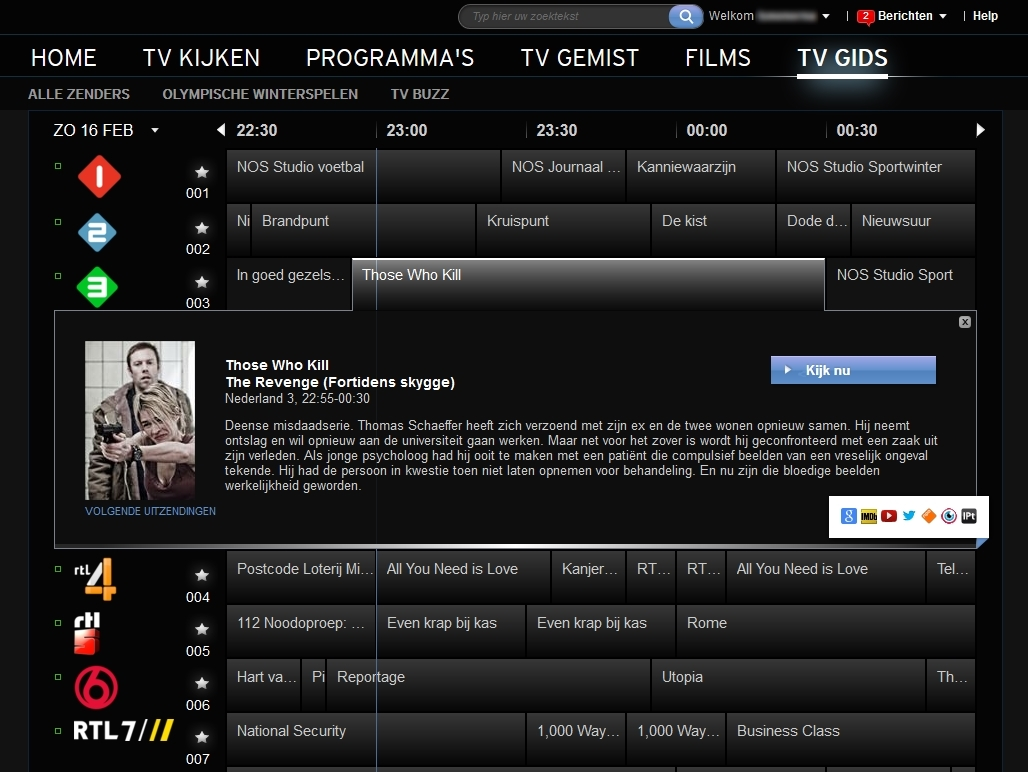
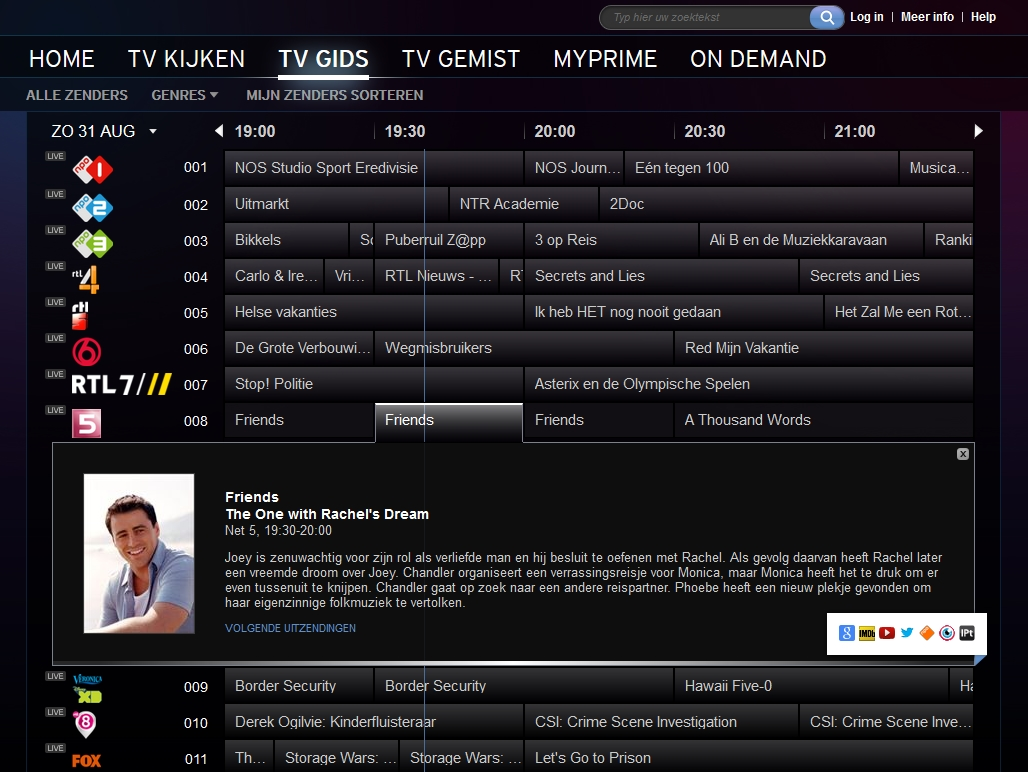
* Removed previous "Kijk Live TV" logic;     * Smaller listings to fit more channels;

diff --git a/Horizon_TV_Fixer/155147.user.js b/Horizon_TV_Fixer/155147.user.js
@@ -1,7 +1,7 @@
 // ==UserScript==
 // @name        Horizon TV Fixer
 // @namespace   https://github.com/jerone/UserScripts
-// @description Fixes some issues & styles and adds some new features on Horizon TV Gids.
+// @description Improves the Horizon TV Gids by extending the functionality and the layout of the site.
 // @author      jerone
 // @copyright   2014+, jerone (http://jeroenvanwarmerdam.nl)
 // @license     GNU GPLv3
@@ -9,12 +9,14 @@
 // @homepageURL https://github.com/jerone/UserScripts/tree/master/Horizon_TV_Fixer
 // @downloadURL https://github.com/jerone/UserScripts/raw/master/Horizon_TV_Fixer/155147.user.js
 // @updateURL   https://github.com/jerone/UserScripts/raw/master/Horizon_TV_Fixer/155147.user.js
-// @include     *horizon.tv*
-// @version     19
+// @version     20
 // @grant       none
+// @include     *horizon.tv*
 // ==/UserScript==
 
 (function HorizonTVFixer(){
+
+	if(!unsafeWindow.BBVSettingsObject){ return; }  // ignore iframes;
 
 	console.log("Version: " + unsafeWindow.BBVSettingsObject.version.major + "." + unsafeWindow.BBVSettingsObject.version.minor + "." + unsafeWindow.BBVSettingsObject.version.micro);
 
@@ -41,8 +43,8 @@
 			},
 			Twitter: {
 				submit: function(title, subtitle, channel, time){
-					return "https://twitter.com/intent/tweet?original_referer=" + encodeURIComponent(url) + 
-								"&source=tweetbutton&url=" + encodeURIComponent(url) + 
+					return "https://twitter.com/intent/tweet?original_referer=" + encodeURIComponent(url) +
+								"&source=tweetbutton&url=" + encodeURIComponent(url) +
 								"&text=" + encodeURIComponent(title + (subtitle ? " - " + subtitle : "") + " op " + channel + " om " + time + " -");
 				},
 				icon: "https://twitter.com/favicon.ico"
@@ -112,68 +114,82 @@
 	});
 
 
-	/* Live/HD green square explanation is removed by CSS fixes below, so we add it back; */
-	PageLoad(function(){
-		Array.forEach(document.querySelectorAll(".live-hd"), (live) => {
-			live.title = "Kijk LIVE";
-		});
-	});
-
 	/* Style fixes; */
 	addStyle(
-/* removed white header; */								"\
-.servicenav.service {									\
-	display: none;										\
-}														"+
+		/* removed white header; */								"\
+		.servicenav.service {									\
+			display: none;										\
+		}														"+
 
-/* cropped header; */									"\
-.header-options {										\
-	margin-top: 5px !important;							\
-}														\
-.utility-wrapper,										\
-.utility-bar {											\
-	height: 35px !important;							\
-}														\
-.branding {												\
-	display: none;										\
-}														\
-#modules {												\
-	padding-top: 0;										\
-}														\
-.channel-guide.module {									\
-	padding-top: 10px;									\
-}														\
-.channel-guide.module div.pinned {						\
-	top : 35px;											\
-	padding: 10px 0 0 0;								\
-}														\
-.navigationbar.pinned {									\
-	display: none;										\
-}														\
-.utilitybar.pinned {									\
-	background: none;									\
-}														\
-#channel-guide-head {									\
-	display: none;										\
-}														"+
+		/* cropped header; */									"\
+		.header-options {										\
+			margin-top: 5px !important;							\
+		}														\
+		.utility-wrapper,										\
+		.utility-bar {											\
+			height: 35px !important;							\
+		}														\
+		.branding {												\
+			display: none;										\
+		}														\
+		#modules {												\
+			padding-top: 0;										\
+		}														\
+		.channel-guide.module {									\
+			padding-top: 10px;									\
+		}														\
+		.channel-guide.module div.pinned {						\
+			top : 35px;											\
+			padding: 10px 0 0 0;								\
+		}														\
+		.navigationbar.pinned {									\
+			display: none;										\
+		}														\
+		.utilitybar.pinned {									\
+			background: none;									\
+		}														\
+		#channel-guide-head {									\
+			display: none;										\
+		}														"+
 
-/* always show channel logo; */							"\
-.network a.logo-active {								\
-	display: block !important;							\
-}														\
-.network a.logo-inactive {								\
-	display: none !important;							\
-}														"+
+		/* lower listings; */									"\
+		.channel-listing .listings,								\
+		.channel-listing .listings .listing,					\
+		.channel-listing .listings .listing.active,				\
+		.channel-listing .listings .listing .asset-details,		\
+		.channel-listing .listings .listing span.title {		\
+			height: auto;										\
+		}														\
+		.channel-listing .listings .listing .asset-details {	\
+			height: 24px;										\
+		}														\
+		.network span.channel-number {							\
+			top: 10px;											\
+		}														\
+		.network a.logo-active img {							\
+			max-height: 29px;									\
+		}														\
+		.network .labels {										\
+			left: -10px;										\
+		}														"+
 
-/* always show channel number; */						"\
-.network span.channel-number {							\
-	display: block !important;							\
-}														"+
+		/* always show channel logo; */							"\
+		.network a.logo-active {								\
+			display: block !important;							\
+		}														\
+		.network a.logo-inactive {								\
+			display: none !important;							\
+		}														"+
 
-/* hide bottom bar; */									"\
-.MyOrionBar  {											\
-	display: none;										\
-}														"+
+		/* always show channel number; */						"\
+		.network span.channel-number {							\
+			display: block !important;							\
+		}														"+
+
+		/* hide bottom bar; */									"\
+		.MyOrionBar  {											\
+			display: none;										\
+		}														"+
 	"");
 
 	function addStyle(css){
@@ -195,9 +211,9 @@
 
 	function ForEachListing(name, done){
 		PageLoad(function(){
-			var listings = document.querySelectorAll(".listing:not(.done-"+name+")");  // get all listings that don't have been processed yet;
+			var listings = document.querySelectorAll(".listing:not(.done-" + name + ")");  // get all listings that don't have been processed yet;
 			Array.forEach(listings, (listing) => {
-				listing.classList.add("done-"+name);  // mark element as done;
+				listing.classList.add("done-" + name);  // mark element as done;
 				done(listing);
 			});
 		});

diff --git a/README.md b/README.md
@@ -1,24 +1,24 @@
 [UserScripts](https://github.com/jerone/UserScripts)
-=========== 
+===========
 
 ### Description
 
 This repo contains a few of my userscripts that I've build (in no particulair order):
 
 * Github
-    * [Github Comment Enhancer](https://github.com/jerone/UserScripts/tree/master/Github_Comment_Enhancer) - Add features to enhance comments & wiki on [Github](https://github.com) and comments on [Github Gist](https://gist.github.com).
-    * [Github News Feed Filter](https://github.com/jerone/UserScripts/tree/master/Github_News_Feed_Filter) - Add filters for [Github homepage](https://github.com) news feed items.
+    * [Github Comment Enhancer](https://github.com/jerone/UserScripts/tree/master/Github_Comment_Enhancer) - Add features to enhance comments & wiki on Github and comments on Github Gist.
+    * [Github News Feed Filter](https://github.com/jerone/UserScripts/tree/master/Github_News_Feed_Filter) - Add filters for Github homepage news feed items.
     * [Github Commit Diff](https://github.com/jerone/UserScripts/tree/master/Github_Commit_Diff) - Adds button to show diff (or patch) file for commit.
     * [Github Commit Whitespace](https://github.com/jerone/UserScripts/tree/master/Github_Commit_Whitespace) - Adds button to hide whitespaces from commit.
     * [Github Pull Request From](https://github.com/jerone/UserScripts/tree/master/Github_Pull_Request_From) - Make pull request original branch linkable.
-    * [Github Gist Share](https://github.com/jerone/UserScripts/tree/master/Github_Gist_Share) - Share your [GitHub Gist](https://gist.github.com) to [Twitter](http://twitter.com), [Dabblet](http://dabblet.com) & as userscript.
+    * [Github Gist Share](https://github.com/jerone/UserScripts/tree/master/Github_Gist_Share) - Share your GitHub Gist to Twitter, Dabblet & as userscript.
 * Twitter
     * [Twitter profile replies hider](https://github.com/jerone/UserScripts/tree/master/Twitter_profile_replies_hider) - Hide replies on Twitter profiles.
     * [Twitter profile retweets hider](https://github.com/jerone/UserScripts/tree/master/Twitter_profile_retweets_hider) - Hide retweets on Twitter profiles.
 * [Multiple Windows Live ID's 2](https://github.com/jerone/UserScripts/tree/master/Multiple_Windows_Live_IDs_2) - Easy login with multiple Microsoft accounts.
 * [Outlook Sign Out To Login](https://github.com/jerone/UserScripts/tree/master/Outlook_Sign_Out_To_Login) - Redirect back to login page when signing out from Outlook.
-* [Horizon TV Fixer](https://github.com/jerone/UserScripts/tree/master/Horizon_TV_Fixer) - Fixes some issues & styles and adds some new features on Horizon TV Gids.
-* [GeenStijl & Powned & Dumpert Comment Enhancer](https://github.com/jerone/UserScripts/tree/master/GeenStijl_Powned_Dumpert_Comment_Enhancer) - Add features to enhance comments on GeenStijl & Powned & Dumpert & more.
+* [Horizon TV Fixer](https://github.com/jerone/UserScripts/tree/master/Horizon_TV_Fixer) - Improves the Horizon TV Gids by extending the functionality and the layout of the site.
+* [GeenStijl & Powned & Dumpert Comment Enhancer](https://github.com/jerone/UserScripts/tree/master/GeenStijl_Powned_Dumpert_Comment_Enhancer) - Add features to enhance comments on the sites GeenStijl & Powned & Dumpert & more.
 * [Marktplaats Exchanger](https://github.com/jerone/UserScripts/tree/master/Marktplaats_Exchanger) - Exchange Marktplaats.nl.
 * [Dakar Extender](https://github.com/jerone/UserScripts/tree/master/Dakar_Extender) - Highlight riders by certain country in standings lists.
 * [April Fools CSS](https://github.com/jerone/UserScripts/tree/master/April_Fools_CSS) - Some CSS april fools.

diff --git a/Horizon_TV_Fixer/README.md b/Horizon_TV_Fixer/README.md
@@ -4,7 +4,7 @@
 
 ### Description
 
-Fixes some issues & styles and adds some new features on [Horizon TV Gids](https://www.horizon.tv/nl_nl/tv-gids.html).
+Improves the [Horizon TV Gids](https://www.horizon.tv/nl_nl/tv-gids.html) by extending the functionality and the layout of the site.
 
 * Add social share to Twitter;
 * Add link to IMDb;
@@ -14,7 +14,8 @@ Fixes some issues & styles and adds some new features on [Horizon TV Gids](https
 * Add link to Uitzending Gemist (Dutch);
 * Add link to IPTorrents;
 * Add missing tooltips;
-* Style fixes;
+* Smaller listings to fit more channels;
+* Remove redundand space;
 
 ### Screenshot
 
@@ -22,24 +23,28 @@ Fixes some issues & styles and adds some new features on [Horizon TV Gids](https
 
 ### Compatible
 
-- [![](https://raw.github.com/jerone/UserScripts/master/_resources/Greasemonkey.png) Greasemonkey](https://addons.mozilla.org/en-US/firefox/addon/greasemonkey/) on [![](https://raw.github.com/jerone/UserScripts/master/_resources/Firefox.png) Mozilla Firefox Desktop](http://www.mozilla.org/en-US/firefox/fx/#desktop).
+* [![](https://raw.github.com/jerone/UserScripts/master/_resources/Greasemonkey.png) Greasemonkey](https://addons.mozilla.org/firefox/addon/greasemonkey/) on [![](https://raw.github.com/jerone/UserScripts/master/_resources/Firefox.png) Mozilla Firefox Desktop](http://www.mozilla.org/en-US/firefox/fx/#desktop).
 * [![](https://raw.github.com/jerone/UserScripts/master/_resources/Scriptish.png) Scriptish](https://addons.mozilla.org/firefox/addon/scriptish/) on [![](https://raw.github.com/jerone/UserScripts/master/_resources/Firefox.png) Mozilla Firefox Desktop](http://www.mozilla.org/en-US/firefox/fx/#desktop).
 
 <sub>Please [notify](https://github.com/jerone/UserScripts/issues/new?title=Userscript%20%3Cname%3E%20%28%3Cversion%3E%29%20also%20works%20in%20%3Cbrowser%3E%20on%20%3Cdesktop/device%3E) when this userscript is successfully tested in another browser...</sub>
 
+This script doesn't work on browser that don't implement [ES6 arrow functions](http://wiki.ecmascript.org/doku.php?id=harmony:arrow_function_syntax) syntax.
+
 ### Version History
 
-* **19**
+* **20** (v1.1.67)
+    * Removed previous "Kijk Live TV" logic;
+    * Smaller listings to fit more channels;
+* **19** (v1.1.57)
     * Removed `GM_addStyle` as it gives errors in GreaseMonkey (not Scriptish);
-    * Works with v1.1.57;
-* **19**
-    * Clean up;
-* **18**
-    * Changes for v1.1.37;
+* **18** (v1.1.47)
+    * Compatibily fixes for v1.1.47;
+* **17** (v1.1.37)
+    * Compatibily fixes for v1.1.37;
 
 ### Notes
 
-Build for version 1.1.57
+Build for version 1.1.67
 
 ### External links
 
